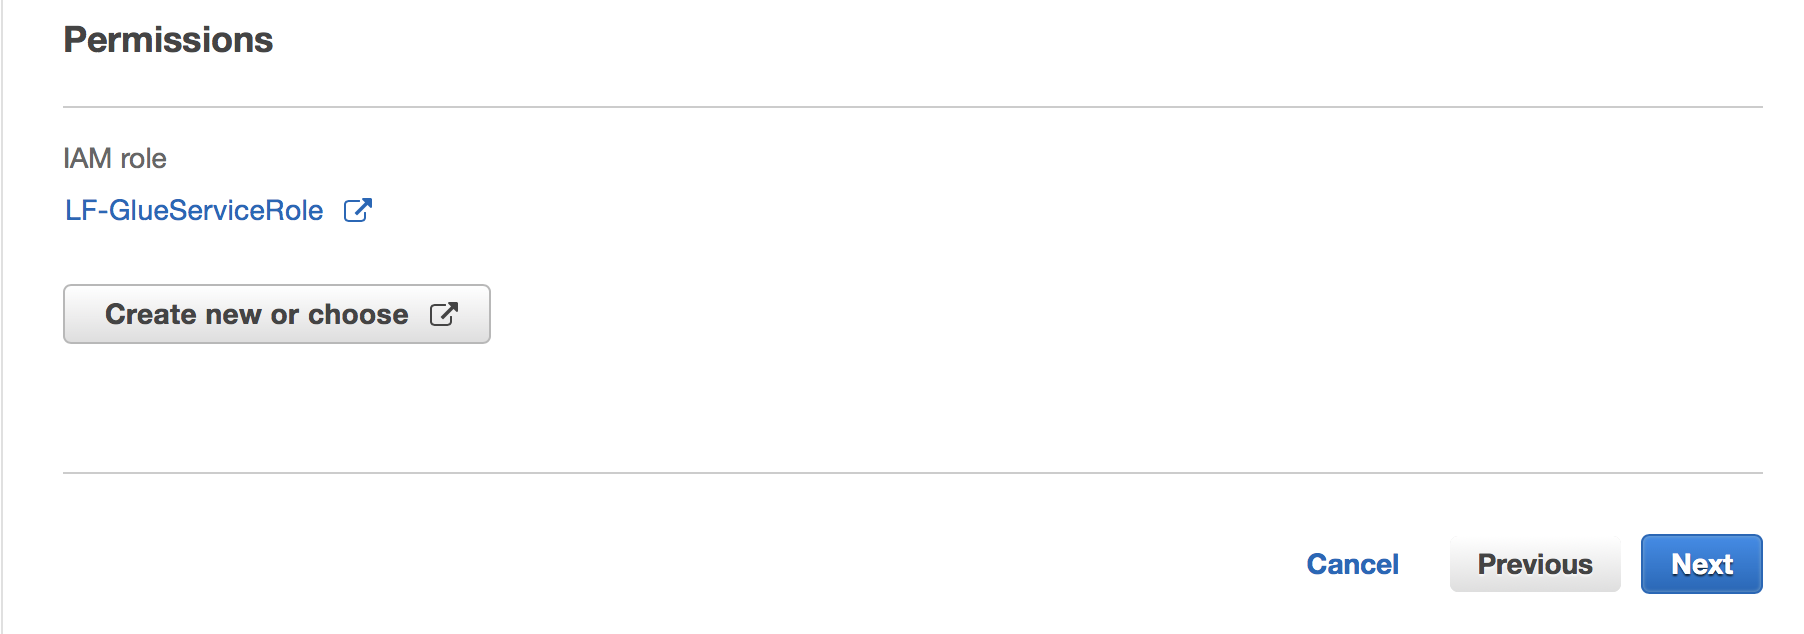
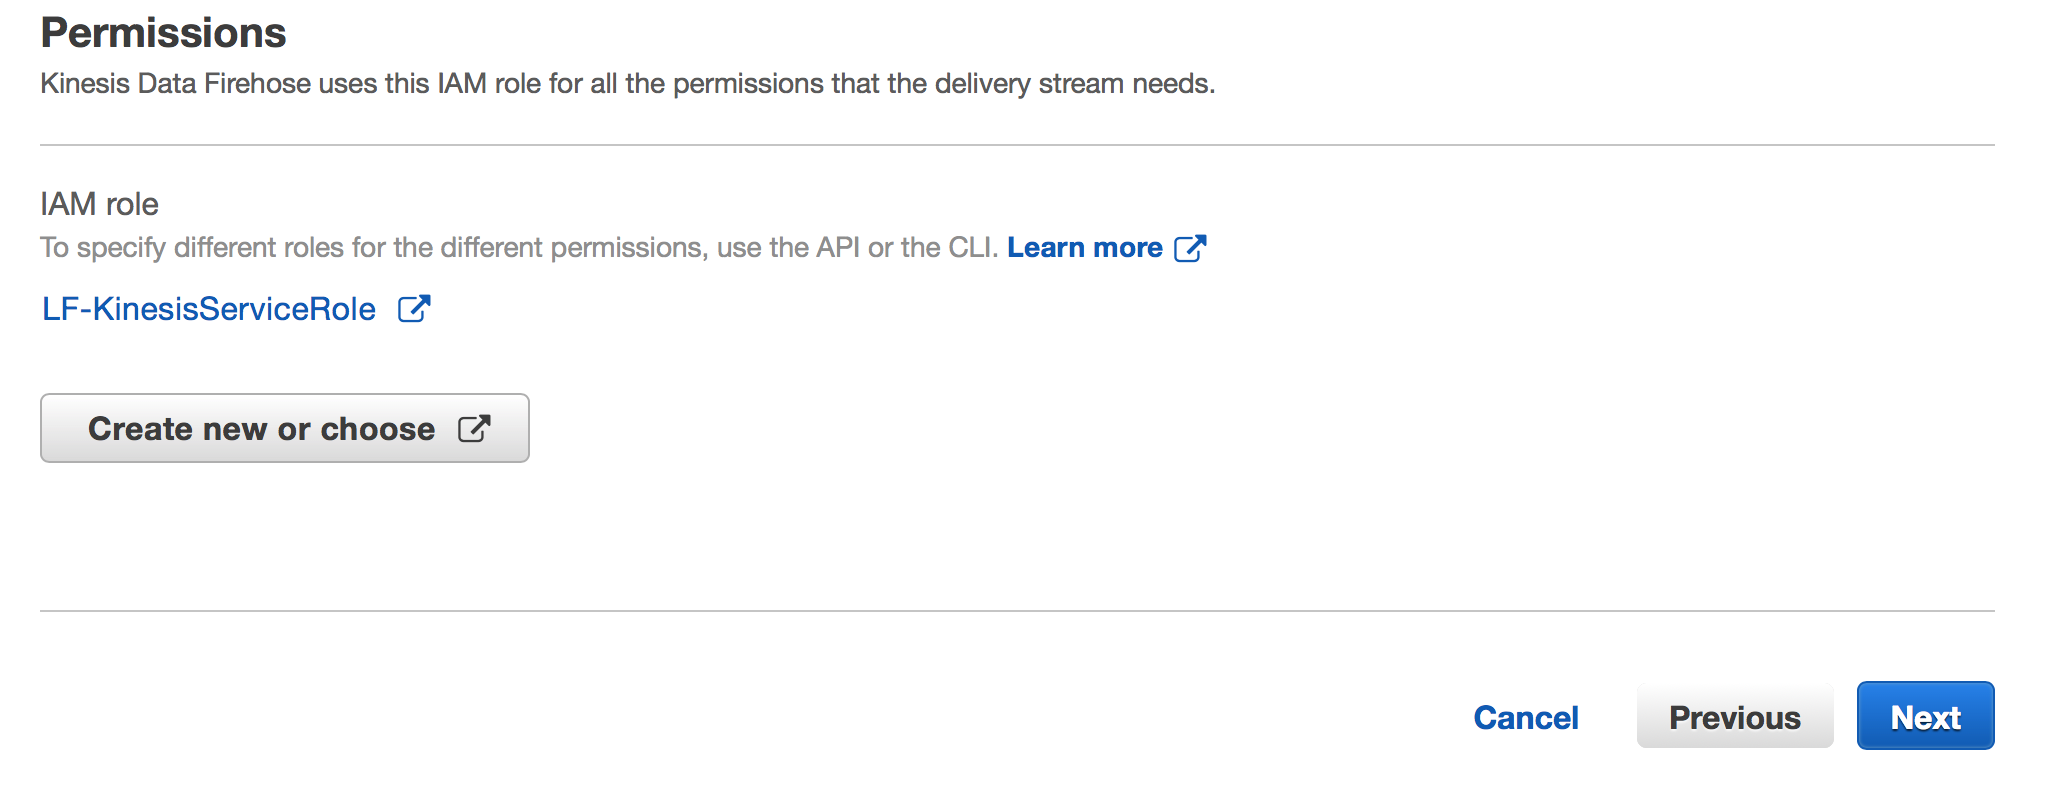
Last Changes requested

diff --git a/website/content/60-advanced/603-handling-realtime-data/6034-stream-table.md b/website/content/60-advanced/603-handling-realtime-data/6034-stream-table.md
@@ -7,7 +7,7 @@ weight = 6034
 <center><h3>Create Stream Table</h3></center>
 
 <div style="text-align: left">
-    In this lab, you will create a new table on Lake Formation that is going to show the real time data that comes from the Firehose delivery stream created in the previous lab.
+    In this section, you will create a new table on Lake Formation that is going to show the real time data that comes from the Firehose delivery stream created in the previous section.
     <ol>
         <li>Go to <b>Services</b> and search for <b>Lake Formation</b> 
             <img src="../../images/rt_table1.png" style="margin:15px 0px; border:1px solid black"/></li>
@@ -15,7 +15,7 @@ weight = 6034
             <img src="../../images/rt_table2.png" style="margin:15px 0px; border:1px solid black"/></li>
         <li>This is going to open a new Glue Crawler Tab, Select <b>Add Crawler</b> 
             <img src="../../images/rt_table3.png" style="margin:15px 0px; border:1px solid black"/></li>  
-        <li>Add <b><i>sales_events</b></i> as the crawler name
+        <li>Add <b><i>tpc_sales_events</b></i> as the crawler name
             <img src="../../images/rt_table4.png" style="margin:15px 0px; border:1px solid black"/></li>
         <li>Select the <b>Data stores</b> Option  
             <img src="../../images/rt_table5.png" style="margin:15px 0px; border:1px solid black"/></li>
@@ -24,7 +24,7 @@ weight = 6034
             <ul>
             	<li>Choose a data store:<b>S3</b></li>
             	<li>Crawl Data in: <b>Specified path in my account</b></li>
-            	<li>Include Path: Select the sales-event folder in your data lake bucket <b><i>s3://lf-data-lake-bucket-youraaccountnumber/sales-event</b></i></li>
+            	<li>Include Path: Select the sales-event folder in your data lake bucket <b><i>s3://lf-data-lake-bucket-youraaccountnumber/dl_tpc_sales_event</b></i></li>
             </ul><br>
             And then select <b>Next</b>
             <img src="../../images/rt_table6.png" style="margin:15px 0px; border:1px solid black"/></li>  
@@ -49,7 +49,6 @@ weight = 6034
             <li>Configure the crawler's output:
             <ul>
             	<li>Database: Select <b>tpc</b></li>
-            	<li>Prefix added to tables: <i><b>dl_</b></i></li>
             	<li>Grouping behavior for S3 data: Check <b>Create a single schema for each S3 path”</b></li>
             </ul><br>
             And then select <b>Next</b>
@@ -63,7 +62,7 @@ weight = 6034
         <li> Click on <b>Run it now?</b>  
             <img src="../../images/rt_table12.png" style="margin:15px 0px; border:1px solid black"/></li>
             
-        <li> This process takes 4 minutes, wait until you see status <b>Ready</b> and <b>1</b> table added and close the Browser Tab.  
+        <li> This process takes 4 minutes, wait until you see the <b>Completed</b> status  and that <b>1</b> table was created and then close the browser Tab.  
             <img src="../../images/rt_table13.png" style="margin:15px 0px; border:1px solid black"/></li> 
             
         <li> Go back to the Lake Formation console, click on <b>Data permissions</b> section on the left-hand side.  
@@ -72,12 +71,13 @@ weight = 6034
         <li> Then click on <b>Grant</b> button .  
             <img src="../../images/rt_table16.png" style="margin:15px 0px; border:1px solid black"/></li>
             
-         <li> On the window that pops up, fill out IAM users and roles as <b>lf-developer</b>, choose tpc for the database and select <i><b>dl_sales_event</b></i> as the table with <b>Select</b> as the <font size="3" color="red"><b>only Table permission</b></font>.<br><br>
+         <li> On the window that pops up, fill out IAM users and roles as <b>lf-developer</b>, choose tpc for the database and select <i><b>dl_tpc_sales_event</b></i> as the table with <b>Select</b> as the <font size="3" color="red"><b>only Table permission</b></font>.<br><br>
               Leave the <b>Grantable permissions</b> unselected and click on the <b>Grant</b> button.  
             <img src="../../images/rt_table17.png" style="margin:15px 0px; border:1px solid black"/></li>   
          
-         <li> You can go to the next Lab</li>   
+           
                       
     </ol>
+    <li> Now, in the next section, you are going to query the real time data. Please proceed to the next part</li>
 </div>
  

diff --git a/website/content/60-advanced/603-handling-realtime-data/6032-create-data-stream.md b/website/content/60-advanced/603-handling-realtime-data/6032-create-data-stream.md
@@ -9,17 +9,15 @@ weight = 6032
 <div style="text-align: justify">
    
  
-  In this lab, you will create a Firehose delivery stream from the AWS Management Console, configure it with a few clicks to store incoming stream data into S3, and start sending data to the stream Kinesis Data Generator (created in the previous Lab) as data source. <br><br>
+  In this Section, you will create a Firehose delivery stream from the AWS Management Console, configure it with a few clicks to store incoming stream data into S3, and start sending data to the stream Kinesis Data Generator (created in the previous section) as data source. <br><br>
     Amazon Kinesis Firehose is a serverless service used to reliably load streaming data into data stores and analytics tools. It can capture, transform, and load streaming data into Amazon S3, Amazon Redshift, Amazon Elasticsearch Service, and 3rd Party services (e.g. Splunk), enabling near real-time analytics. 
 
     <ol>
         <li>Login as the <b><i>lf-admin</i></b> user and select the <b><font size="3" color="red">N. Virginia Region.</font></b><br><br></li>
         <li>In the AWS Management Console go to <b>Find Services</b> and look for the <b>Kinesis</b> service.
             <img src="/images/firehose1.png" style="margin:15px 0px; border:1px solid black"/></li>
-        <li>In the Kinesis home page Select <b>Get Started</b> 
+        <li>In the Kinesis home page, under the <b>Get Started</b> section, select the <b>Kinesis Firehose</b> option and then select <b>Create delivery stream</b>
             <img src="/images/firehose18.png" style="margin:15px 0px; border:1px solid black"/></li>
-        <li>Click on <b>Create Delivery Stream</b> Button in the  <b>Kinesis Firehose</b> Section
-            <img src="/images/firehose19.png" style="margin:15px 0px; border:1px solid black"/></li>
         <li>Add a new delivery stream and configure as follows:
             <ul>
             	<li>Delivery stream name: <b><i>lf-kinesis-fh</i></b></li>
@@ -35,8 +33,8 @@ weight = 6032
         <li>Configure the destination as follows::
             <ul>
             	<li>S3 bucket: Select the name of the bucket created by CloudFormation <b><i>lf -data-lake-bucket-youraccountid</i></b></li>
-            	<li>S3 prefix: <b><i>sales-event/year=!{timestamp:yyyy}/month=!{timestamp:MM}/day=!{timestamp:dd}/</i></b></li>
-            	<li>S3 error prefix: <b><i>sales-event-errors/year=!{timestamp:yyyy}/month=!{timestamp:MM}/day=!{timestamp:dd}/!{firehose:error-output-type}</b></i></li>
+            	<li>S3 prefix: <b><i>dl_tpc_sales_event/year=!{timestamp:yyyy}/month=!{timestamp:MM}/day=!{timestamp:dd}/</i></b></li>
+            	<li>S3 error prefix: <b><i>dl_tpc_sales_event_errors/year=!{timestamp:yyyy}/month=!{timestamp:MM}/day=!{timestamp:dd}/!{firehose:error-output-type}</b></i></li>
             </ul><br>
             And then select <b>Next</b>
             <img src="/images/firehose7.png" style="margin:15px 0px; border:1px solid black"/></li>  
@@ -64,8 +62,8 @@ weight = 6032
          
          <li>Configure the Role Summary section as follows:
             <ul>
-            	<li>IMA Role: <b><i>LF-GlueServiceRole</i></b></li>
-            	<li>Policy Name : <b><i>LF-Data-Lake-Storage-Policy</i></b></li>
+            	<li>IMA Role: <b><i>LF-KinesisServiceRole</i></b></li>
+            	<li>Policy Name : <b><i>LF-Stream-Data-Storage-Policy</i></b></li>
             </ul><br>
             And then select <b>Allow</b>  
             <img src="/images/firehose12.png" style="margin:15px 0px; border:1px solid black"/></li>     
@@ -78,11 +76,11 @@ weight = 6032
             
        <li> Wait until you see the <i><b>Successfully created delivery stream lf-kinesis-fh</b></i> message 
             <img src="/images/firehose15.png" style="margin:15px 0px; border:1px solid black"/></li>  
-            
-       <li> Go to the next part of the lab</li>
+        </ol>    
+       <li> Now, in the next section, you are going to generate real time data. Please proceed to the next part</li>
             
                                      
                            
-    </ol>
+    
  </div>
  

diff --git a/website/content/60-advanced/603-handling-realtime-data/6035-querying-real time-data.md b/website/content/60-advanced/603-handling-realtime-data/6035-querying-real time-data.md
@@ -16,16 +16,28 @@ weight = 6035
             <img src="/images/rt_query1.png" style="margin:15px 0px; border:1px solid black"/></li>
         <li>Make sure you are logged in as a <font size="3" color="red"><b>lf-developer</b></font> 
             <img src="/images/rt_query2.png" style="margin:15px 0px; border:1px solid black"/></li>
-        <li>Please selected the <b>tpc</b> database
+        <li>Please select the <b>tpc</b> database
             <center><img src="/images/rt_query3.png" style="margin:15px 0px; border:1px solid black"/></center></li>  
-        <li>Select the <b>dl_sales_event</b> table and see the columns that were added by the Glue Crawler 
+        <li>Select the <b>dl_tpc_sales_event</b> table and see the columns that were added by the Glue Crawler 
             <center><img src="/images/rt_query4.png" style="margin:15px 0px; border:1px solid black"/></center></li>
-        <li>Run the following query:<br><br> <b><i>SELECT * FROM "tpc"."dl_sales_event" limit 10;</i></b><br><br>This query is going to show a sample of the data that is inside the table
+        <li>Run the following query:<br><br> <b><i>SELECT * FROM "tpc"."dl_tpc_sales_event" limit 10;</i></b><br><br>This query is going to show a sample of the data that is inside the table
             <img src="/images/rt_query5.png" style="margin:15px 0px; border:1px solid black"/></li>
-        <li>Run the following query every <i>60 seconds</i> and you will notice how the number of records increases:<br><br><b><i>SELECT count(productname) FROM "tpc"."dl_sales_event" limit 10;</i></b><br><br>Time 1:
+        <li>Run the following query every <i>60 seconds</i> and you will notice how the number of records increases:<br><br><b><i>SELECT count(productname) FROM "tpc"."dl_tpc_sales_event";</i></b><br><br>Time 1:
             <img src="/images/rt_query6.png" style="margin:15px 0px; border:1px solid black"/></li><br><br>Time 2:<br><br>
-            <img src="/images/rt_query7.png" style="margin:15px 0px; border:1px solid black"/>    
+            <img src="/images/rt_query7.png" style="margin:15px 0px; border:1px solid black"/> 
+        <li>Now, Let's try to query the same table with another user <font size="3" color="red"><b>without</b></font> access to the dl_tpc_sales_even table and see what happens. Login to your AWS account as the user <b>lf-business-analyst</b>. (Default password: Password1!)</li> 
+        <li>From the AWS Management console, search for <b>Amazon Athena</b> service <img src="/images/Query-AthenaService-search.png" style="margin:15px 0px; border:1px solid black"/></li>
+        <li>Make sure you are logged in as a <b>lf-business-analyst</b> user<img src="/images/business-analyst-view.png" style="margin:15px 0px; border:1px solid black"/></li> 
+        <li>Please select the <b>tpc</b> database
+            <center><img src="/images/rt_query3.png" style="margin:15px 0px; border:1px solid black"/></center></li> 
+        <li>You can see the list of tables that the lf-business-analyst user has access, and <b>dl_tpc_sales_even</b> is not one of them
+            <center><img src="/images/rt_query11.png" style="margin:15px 0px; border:1px solid black"/></center></li> 
+        <li>Run the following query:<br><br> <b><i>SELECT * FROM "tpc"."dl_tpc_sales_event" limit 10;</i></b><br><br>This query is going to show a sample of the data that is inside the table
+            <img src="/images/rt_query12.png" style="margin:15px 0px; border:1px solid black"/></li>  
+        <li>The last query tried to access the dl_tpc_sales_even table and as expected the business analyst user got an error message.
+            <img src="/images/rt_query13.png" style="margin:15px 0px; border:1px solid black"/></li>            
                
     </ol>
+    <li> Congratulations!, you have finished this Lab</li>
  </div>
  

diff --git a/website/content/60-advanced/603-handling-realtime-data/6031-kinesis-generator.md b/website/content/60-advanced/603-handling-realtime-data/6031-kinesis-generator.md
@@ -12,7 +12,7 @@ weight = 6031
  You will deploy an open-source serverless real-time data generator tool to simulate data in real-time and ingest into AWS Kinesis Firehose. We will simulate product catalogue data with random values.
     <ol>
         <li>Login as the <b><i>lf-admin</i></b> user (default password: Password1!).</li>
-        <li>Create the CloudFormation stack by clicking the button below. It will take you to the AWS CloudFormation console in the <b><font size="3" color="red">Oregon Region</font></b> <b>(this region is going to be used just for this component of the lab)</b> and start the stack creation wizard. 
+        <li>Create the CloudFormation stack by clicking the button below. It will take you to the AWS CloudFormation console in the <b><font size="3" color="red">Oregon Region</font></b> <b>(this region is going to be used just for this section)</b> and start the stack creation wizard. 
             <a href="https://console.aws.amazon.com/cloudformation/home?region=us-west-2#/stacks/new?stackName=Kinesis-Data-Generator-Cognito-User&templateURL=https://aws-kdg-tools.s3.us-west-2.amazonaws.com/cognito-setup.json" target="_blank"><img src="../../images/LaunchStack.svg" title="KG Tool CFN" width="140" height="60" style="margin:10px 0px"/></a></li>
         <li>Accept the defaults and select <b>Next</b> 
             <img src="/images/kinegen1.png" style="margin:15px 0px; border:1px solid black"/></li>
@@ -33,6 +33,6 @@ weight = 6031
             <img src="/images/kingen8.png" style="margin:15px 0px; border:1px solid black"/></li>           
     </ol>
     
-    <li>Now, in the next section, you are going to create sample data stream using this KDG. Please proceed to the next lab.</li>
+    <li>Now, in the next section, you are going to create sample data stream using KDG. Please proceed to the next part.</li>
  </div>
  

diff --git a/website/content/60-advanced/603-handling-realtime-data/6033-generate-streaming-data.md b/website/content/60-advanced/603-handling-realtime-data/6033-generate-streaming-data.md
@@ -50,7 +50,7 @@ weight = 6033
     <li>You will see a message similar to this::
             <img src="../../images/kg3.png" style="margin:15px 0px; border:1px solid black"/><br>
             
-            <b>Hint:</b> Don’t stop sending events from KDG. Let it run while you are working on the other labs.<br><br> 
+            <b>Hint:</b> Don’t stop sending events from KDG. Let it run while you are working on the other sections.<br><br> 
             </li>  
             
       <li>To verify that the Data Stream is working go back to the <b>Kinesis Firehose</b> console and select <b><i>lf-kinesis-fh</b></i>
@@ -60,5 +60,6 @@ weight = 6033
             <img src="../../images/firehose17.png" style="margin:15px 0px; border:1px solid black"/></li>                                             
                            
     </ol>
+    <li> Now, in the next section, you are going to create a table for the real time data. Please proceed to the next part</li>
  </div>
  

diff --git a/website/content/90-cleanups/_index.md b/website/content/90-cleanups/_index.md
@@ -10,6 +10,7 @@ chapter = true
     <ul>
         <li>Lake-Formation-Workshop</li>
         <li>Lake-Formation-With-EMR-Workshop & Lake-Formation-EMR-WindowsADFS (if you completed Advanced labs)</li>
+        <li>Kinesis-Data-Generator-Cognito-User <font size="3" color="red">us-west-2 (Oregon Region) </b></font></li>
     </ul>
     Click here to know more about how to <a href="https://docs.aws.amazon.com/AmazonS3/latest/user-guide/delete-bucket.html">delete the Amazon S3 bucket</a>.
 </div>
